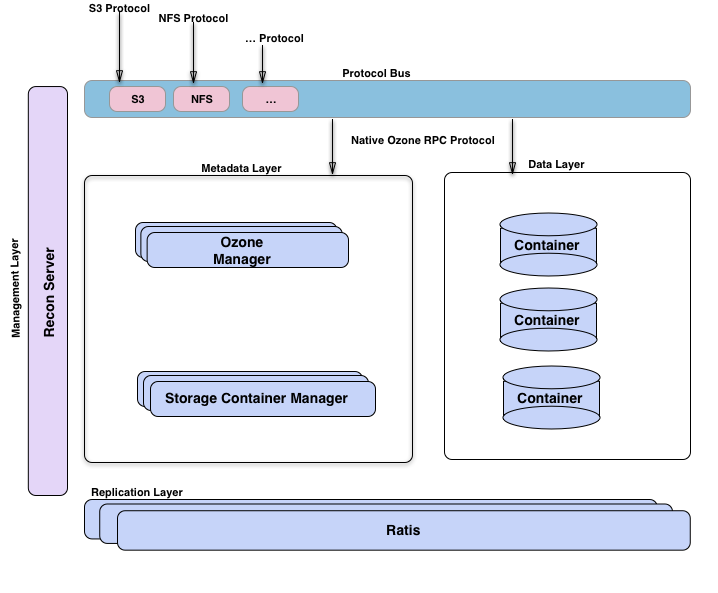
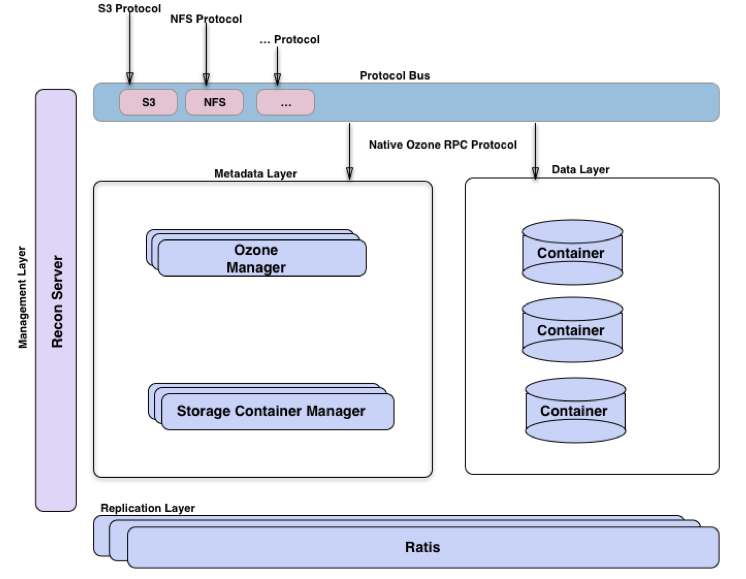
HDDS-14535. Architecture Overview images broken in dark mode.

Changed region(s): [[0.0, 0.0, 0.9805, 0.9948], [0.1838, 0.3731, 0.4903, 0.4974]]

diff --git a/docs/03-core-concepts/01-architecture/01-overview.md b/docs/03-core-concepts/01-architecture/01-overview.md
@@ -15,7 +15,7 @@ Ozone achieves better scalability by separating namespace management from block 
 
 The block diagram below illustrates Ozone's main components and their interactions.
 
-![Architecture diagram](ozoneBlockDiagram.png)
+![Architecture diagram](OzoneArchitectureDiagram.png)
 
 - **Clients** interact with Ozone to read and write data.
 - The **Ozone Manager (OM)** acts as the namespace manager. It handles client requests for creating, deleting, or looking up keys.
